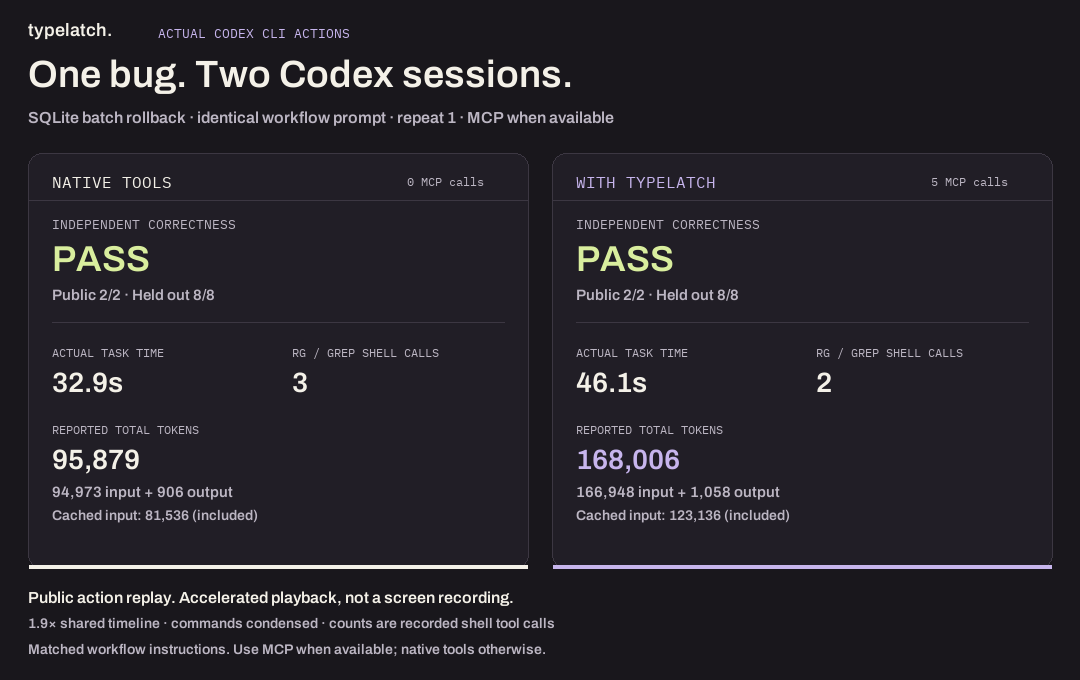
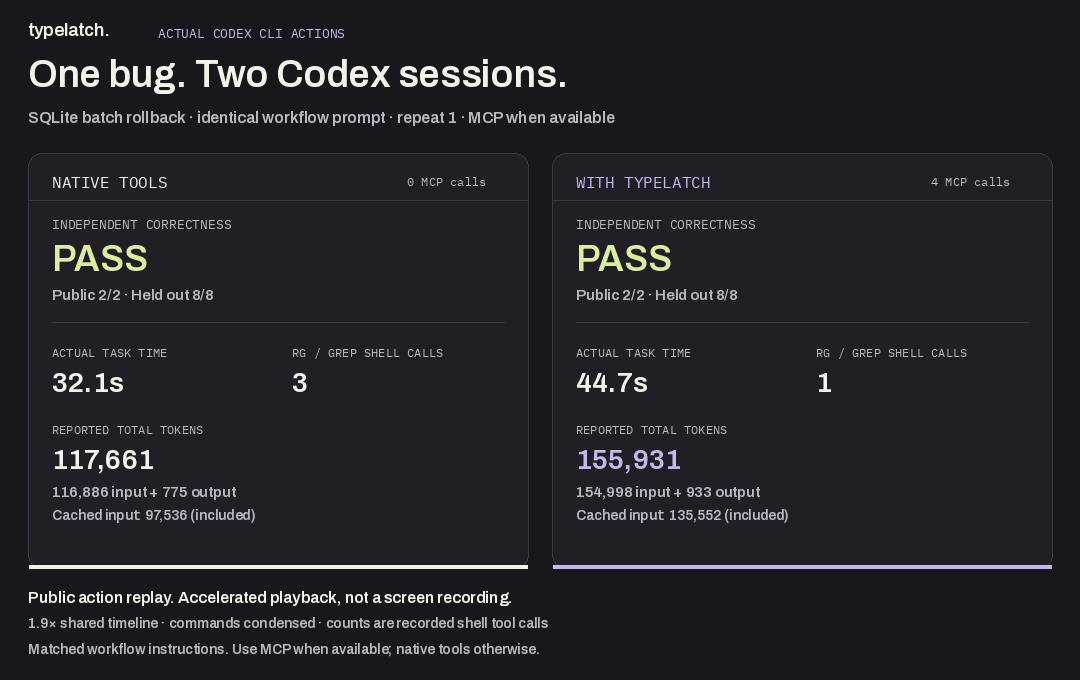
docs: show measured candidate losses

diff --git a/site/index.html b/site/index.html
@@ -38,7 +38,7 @@
         <p class="hero-description">Your source. Your dependency versions. <strong>Typelatch gives coding agents a focused place to start</strong> and the tools to check what comes next.</p>
         <div class="hero-install">
           <p class="small-label">CONNECT CODEX OR CLAUDE CODE</p>
-          <div class="command-line"><span class="shell-dollar" aria-hidden="true">$</span><pre tabindex="0" aria-label="Connect your coding agent"><code id="hero-install-command">npx typelatch@0.4.0 setup</code></pre><button type="button" data-copy="hero-install-command" hidden>Copy</button></div>
+          <div class="command-line"><span class="shell-dollar" aria-hidden="true">$</span><pre tabindex="0" aria-label="Connect your coding agent"><code id="hero-install-command">npx typelatch@latest setup</code></pre><button type="button" data-copy="hero-install-command" hidden>Copy</button></div>
         </div>
 
         <div class="hero-actions"><a href="#walkthrough">See it in action <span aria-hidden="true">↓</span></a><span>Open source · Runs locally · TypeScript</span></div>
@@ -82,7 +82,6 @@
             Run setup, choose your client,<br class="desktop-break" />
             and confirm. No repository clone or global installation.
           </p>
-          <p>New in 0.4.0: broader lockfile support and measured Codex comparisons. <a href="https://github.com/eDimka/typelatch/blob/main/CHANGELOG.md#040">Release notes ↗</a></p>
           <a class="npm-link" href="https://www.npmjs.com/package/typelatch"
             >typelatch on npm <span aria-hidden="true">↗</span></a
           >
@@ -93,7 +92,7 @@
               <h3>Connect Typelatch</h3>
               <button type="button" data-copy="install-command" hidden>Copy</button>
             </div>
-            <pre tabindex="0" aria-label="Connect Typelatch"><code id="install-command">npx typelatch@0.4.0 setup</code></pre>
+            <pre tabindex="0" aria-label="Connect Typelatch"><code id="install-command">npx typelatch@latest setup</code></pre>
             <p>
               Requires Node.js 22.12 or newer, npm, Bash, and the Codex or Claude Code CLI.
               The native SQLite dependency may need a C++ toolchain if a
@@ -105,7 +104,7 @@
               <h3>Initialize from your lockfile</h3>
               <button type="button" data-copy="index-command" hidden>Copy</button>
             </div>
-            <pre tabindex="0" aria-label="Prepare dependency indexes"><code id="index-command">npx typelatch@0.4.0 sync</code></pre>
+            <pre tabindex="0" aria-label="Prepare dependency indexes"><code id="index-command">npx typelatch@latest sync</code></pre>
             <p>
               Read exact npm dependencies from npm, pnpm, Yarn, Bun or Deno lockfiles. Binary Bun locks require Bun on your machine.
               Preview the plan with <code>sync --dry-run --json</code>, then build reusable local indexes.
@@ -117,7 +116,7 @@
               <h3>Choose your monorepo projects</h3>
               <button type="button" data-copy="scope-command" hidden>Copy</button>
             </div>
-            <pre tabindex="0" aria-label="Select monorepo projects"><code id="scope-command">npx typelatch@0.4.0 scope add apps/web packages/ui</code></pre>
+            <pre tabindex="0" aria-label="Select monorepo projects"><code id="scope-command">npx typelatch@latest scope add apps/web packages/ui</code></pre>
             <p>
               Save the projects you need. Source search and plain <code>sync</code> use that selection.
               Add more later with <code>scope add</code>, or narrow it with <code>scope remove</code>.

diff --git a/docs/BENCHMARKS.md b/docs/BENCHMARKS.md
@@ -2,11 +2,24 @@
 
 ## Paired agent comparison
 
-[Results](https://edimka.github.io/typelatch/#benchmark) · [Data and per run evidence](benchmarks/typelatch-use/paired-agent.json) · [Frozen protocol](benchmarks/typelatch-use/paired-agent-protocol.json)
+[Results](https://edimka.github.io/typelatch/#benchmark) · [Current candidate evidence](benchmarks/typelatch-040-candidate/paired-agent.json) · [Candidate protocol](benchmarks/typelatch-040-candidate/paired-agent-protocol.json) · [Original 0.3.0 evidence](benchmarks/typelatch-use/paired-agent.json)
+
+The latest recorded candidate uses compact MCP validation responses. It did not meet the performance gate: total model tokens increased 63.0%, and agent time plus index preparation increased 44.8%. Correctness was five of six sessions with Typelatch and four of six without it. This is the packed `typelatch@0.4.0` checkout candidate identified by the report's archive digest, not evidence about an npm release.
+
+| Latest candidate totals | Without Typelatch | With Typelatch |
+| :--- | ---: | ---: |
+| Grep shell calls | 22 | 13 |
+| Input plus output tokens | 954,947 | 1,556,137 |
+| Agent time | 320.0 s | 430.9 s |
+| Index preparation | 0.0 s | 32.4 s |
+| Agent time plus indexing | 320.0 s | 463.3 s |
+| Correct solutions | 4 / 6 | 5 / 6 |
+
+The frozen gate required at least 10% improvement in both total tokens and charged time, in aggregate and median paired reductions, improvement in both repeats, and no correctness decline overall or per task. All twelve sessions remain included. Common fixture preparation, final independent grading and installation of the shared benchmark runtime are outside this gate and remain separately disclosed. Candidate results and the original 0.3.0 study are not pooled.
 
 Three authored TypeScript tasks, two repetitions per condition, twelve fresh Codex sessions. Tasks cover SQLite rollback, cart preview correctness, and an Effect manifest validator. The latter two share a 57 source file project.
 
-Both conditions use Codex CLI 0.166.0, requested model `gpt-6.1-sol`, medium reasoning, identical task and workflow prompts, starting source, dependencies, native tools and permissions. The shared prompt requires source discovery, installed API inspection and tests before and after editing. It directs the agent to Typelatch when available and native equivalents otherwise. One condition provides published `typelatch@0.3.0` MCP tools. Runs are sequential, with condition order reversed for the second repetition. All attempts remain in the results. Only workspace paths in two generated native build files are normalized when comparing initial inventories; original hashes are retained.
+Both studies use Codex CLI 0.166.0, requested model `gpt-6.1-sol`, medium reasoning, identical task and workflow prompts within each pair, starting source, dependencies, native tools and permissions. The shared prompt requires source discovery, installed API inspection and tests before and after editing. It directs the agent to Typelatch when available and native equivalents otherwise. The original study provides published `typelatch@0.3.0` MCP tools; the current study uses the captured 0.4.0 candidate. Runs are sequential, with condition order reversed for the second repetition. All attempts remain in the results. Only workspace paths in two generated native build files are normalized when comparing initial inventories; original hashes are retained.
 
 | Metric | Definition |
 | :--- | :--- |
@@ -25,6 +38,8 @@ A separate [automatic choice study](benchmarks/paired-agent.json) retained twelv
 ### Reproduce
 
 Use an authenticated Codex CLI and the recorded lockfiles. Use npm 10.9.8 for the captured Typelatch 0.3.0 runtime; npm 12 response compatibility starts in Typelatch 0.4.0. Install `typelatch@0.3.0` in `artifacts/paired-agent/runtime`. Run `node --test scripts/paired-agent*.test.mjs`. For a new study, run `node scripts/paired-agent-use.mjs --freeze --output-directory artifacts/paired-agent/new-study`, then the same command with `--run` instead of `--freeze`. The runner refuses to overwrite existing evidence. Fixtures and independent assertions are in `scripts/fixtures/paired-agent`.
+
+The candidate capture uses `scripts/paired-agent-candidate.mjs`, the archive identity and frozen inputs in its protocol. Rebuilding a different checkout with the same version number does not reproduce that artifact. The candidate runner retains every preparation and launch attempt and refuses replacement runs. Its first SQLite pair was selected for the action replay before scoring, regardless of outcome.
 
 These are known development exercises, not unseen production tasks. Two repetitions do not add task diversity. Machine load, network latency, provider caching and sampling affect measurements. Starting from an empty machine also incurs the separately reported preparation costs. Results describe this sample and do not establish a general performance guarantee.
 
